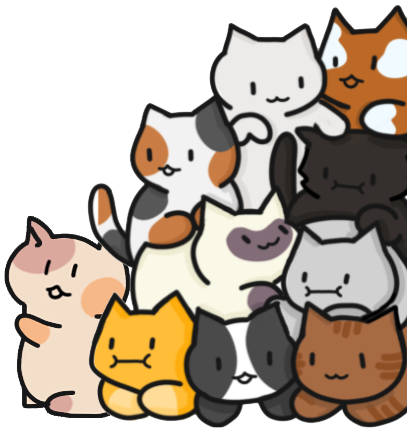
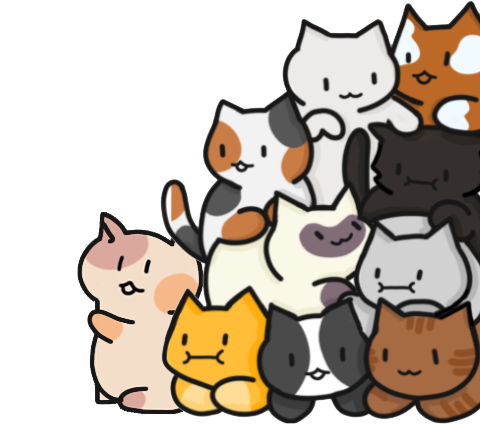
Friday week 6

diff --git a/style.css b/style.css
@@ -26,47 +26,40 @@ html {
   color: white;
   border: 0px;
   height: 100%;
- /* margin-top: auto;
-  margin-bottom: auto;*/
 }
 
 .sideColumn {
   flex: 33%;
-  /*border: solid black 1px;*/
   height: 100%;
   position: relative;
 }
 
 #leftCatPile {
-  border: solid red 1px;
-  /*float: right;*/
   position: absolute;
-  bottom: 0px;
+  bottom: -25px;
   left: 0px;
+  width: 105%;
+  height: auto;
 }
 
 #rightCatPile {
-  border: solid red 1px;
-  /*float: right;*/
   position: absolute;
-  bottom: 0px;
+  bottom: -25px;
   right: 0px;
+  width: 105%;
+  height: auto;
 }
 
 #climbingCat {
-  scale: 50%;
-  border: solid yellow 1px;
   position: absolute;
   top: 20%;
-  right: -110px;
+  right: -30px;
 }
 
 #topClimbingCat {
-  scale: 50%;
-  border: solid orange 1px;
-  position: sticky;
-  top: -20px;
-  /*top: -300px; right: 0px;              where is the image relative to??? how to move it up...*/
+  position: absolute;
+  top:-20px;
+  left: 20%;
 }
 
 .title {
@@ -155,10 +148,20 @@ html {
    font-weight: bold;         
 }
 
+#sphinx {
+position: absolute;
+bottom:0;
+  left: 50%;
+  transform: translate(-100%, 0%);
+}
 
+#pointing {
+  position: absolute;
+  bottom:-15px;
+  left: 50%;
+  transform: translate(-30%, 0%);
+}
 
-/* NEED TO  
--  make infoTitle 
--  make images PNG's
--  top hanging cat position
-*/
+.wasd {
+  padding-top: 10px;
+}

diff --git a/info.html b/info.html
@@ -17,7 +17,7 @@
   <div class="infoPage">
     <div class="sideColumn">  <img id="pointing" src="pointing-cat.png" /></div>
     <div class="centreColumnInfo" <h1 class="infoTitle"> <br> How to play <br </h1>
-      <br>
+      
       <img class="wasd" src="arrow-keys.png">
 
       <p class="info2">Use the arrow keys to move around the world
